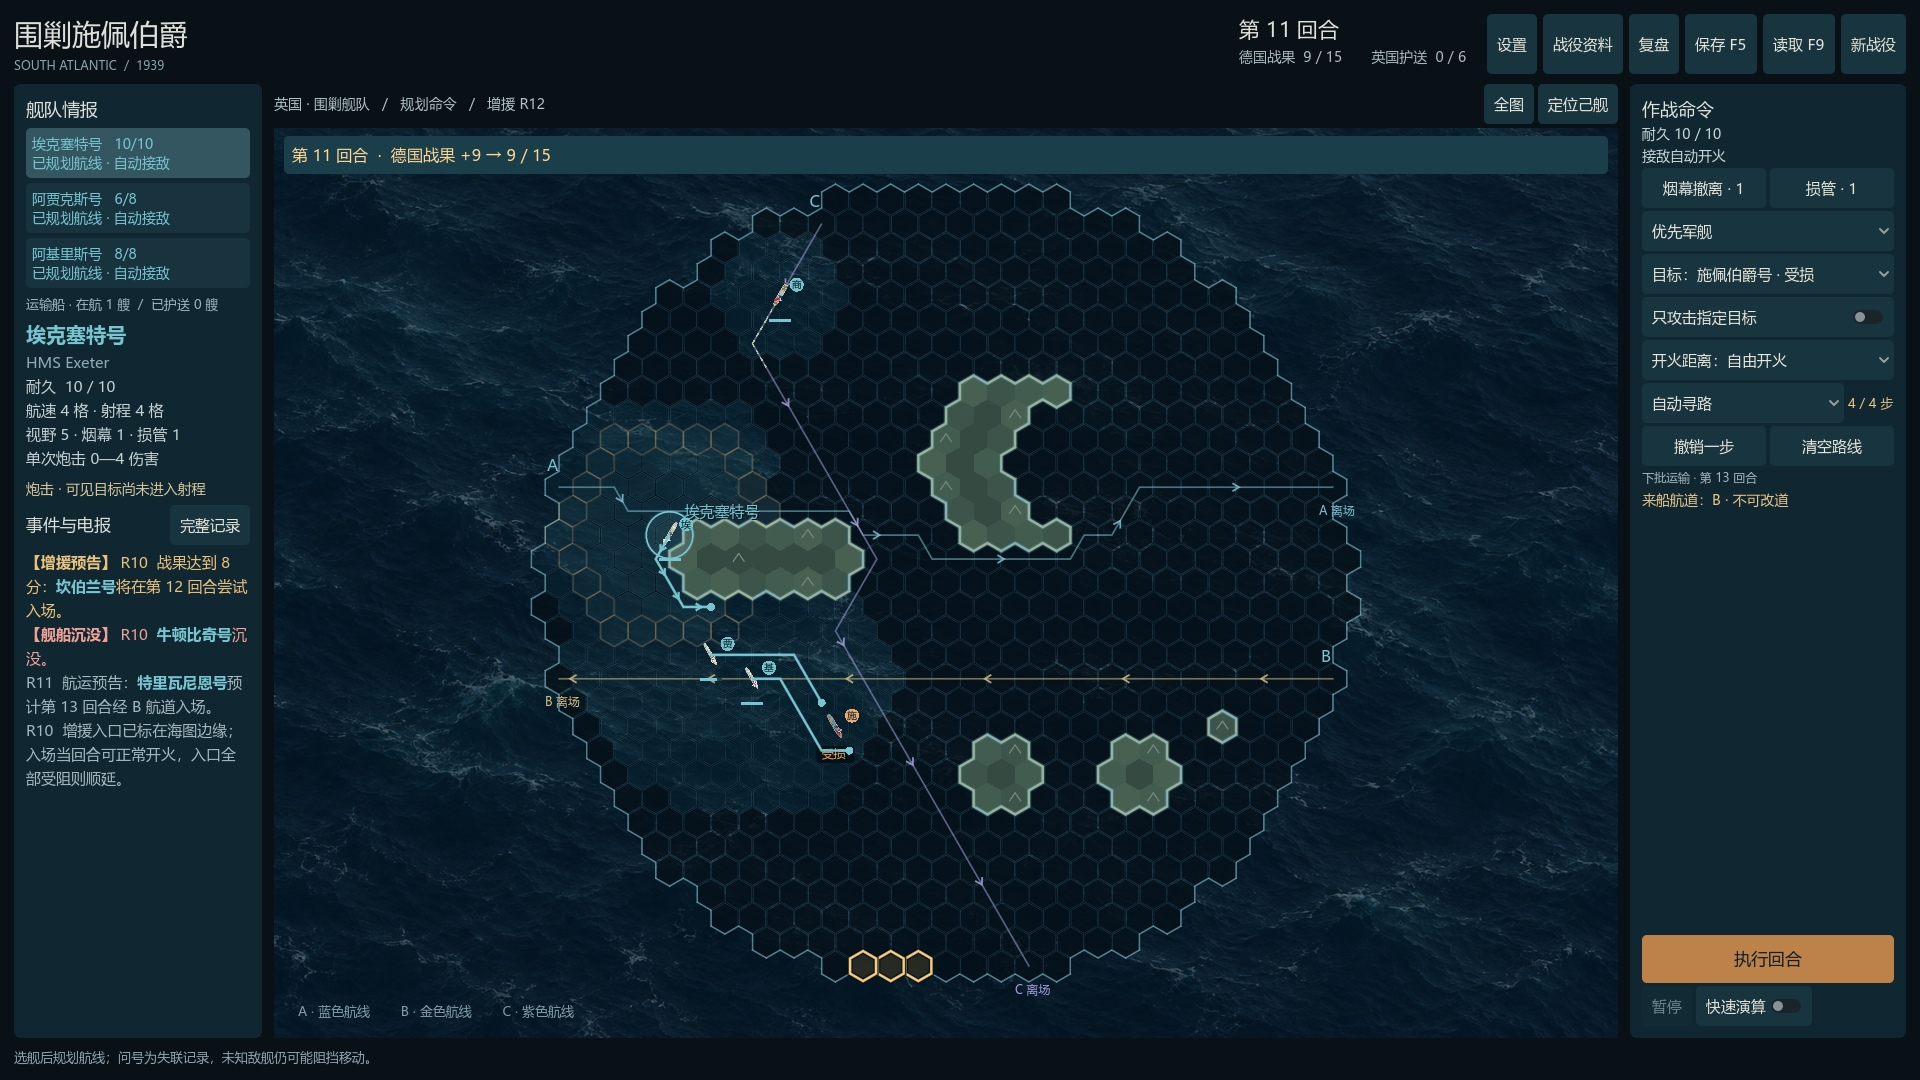
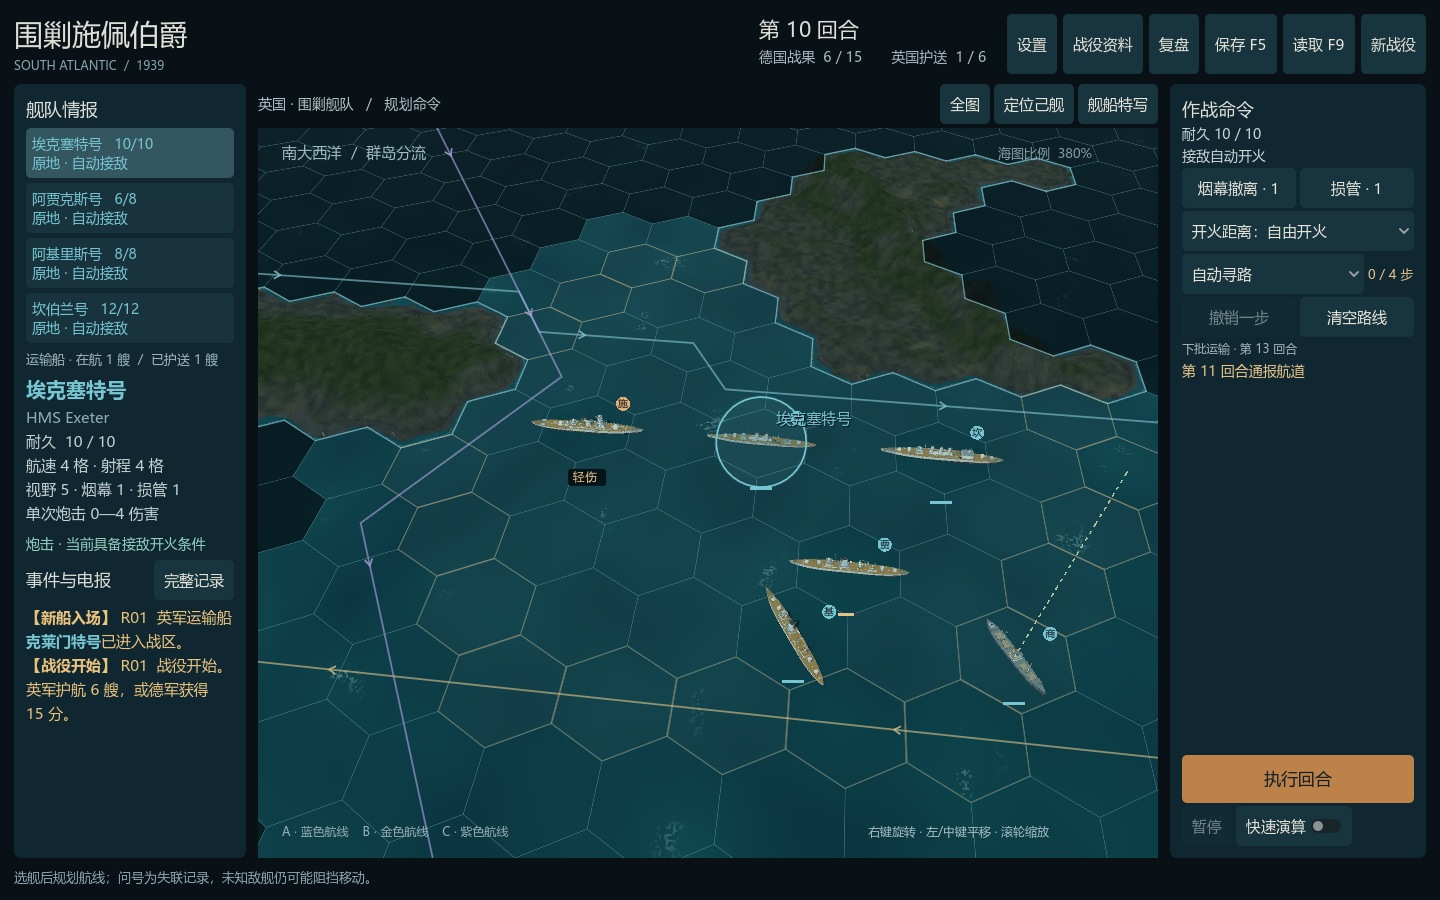
更新 0.10.16 下载说明与 3D 游戏截图

diff --git a/README.md b/README.md
@@ -2,50 +2,62 @@
 
 1939年，南大西洋。指挥施佩伯爵号袭商与突围，或统率英国巡洋舰搜索、围堵并保护运输船。
 
-这是一款中文非对称回合制海战战棋，支持 Windows 单人对战 AI 和同一局域网双人对战。
+这是一款中文非对称回合制海战战棋，支持 Windows 单人对战 AI 和同一局域网双人对战。当前试玩版 **0.10.16** 使用3D舰船、海面与岛屿，新局规则仍为 **0.4.14**。
 
-![围剿施佩伯爵](cover.png)
+![围剿施佩伯爵海战封面](cover.png)
 
 ## 下载与运行
 
-**[直接下载 Windows 试玩版 0.10.15（ZIP，约144MB）](https://github.com/deityfrost/hunt-for-graf-spee/releases/download/v0.10.15/GrafSpee-0.10.15-Windows.zip)**
+**[下载 Windows 试玩版 0.10.16](https://github.com/deityfrost/hunt-for-graf-spee/releases/download/v0.10.16/GrafSpee-0.10.16-Windows.zip)** · [最新发布页](https://github.com/deityfrost/hunt-for-graf-spee/releases/latest)
 
-备用入口：[最新发布页](https://github.com/deityfrost/hunt-for-graf-spee/releases/latest)。进入后在 **Assets** 中选择 `GrafSpee-0.10.15-Windows.zip`。
+1. 下载 `GrafSpee-0.10.16-Windows.zip`，解压完整文件夹。
+2. 运行其中的 `GrafSpee.exe`，保留同目录的 `GrafSpee.pck`、`platform` 和 `LICENSES`。
+3. 支持 Windows 10/11 64位，无需安装 Godot；单人游玩无需联网或游戏账号。
 
-1. 下载 `GrafSpee-0.10.15-Windows.zip`。
-2. 解压完整文件夹，再运行其中的 `GrafSpee.exe`。
-3. 保留同目录的 `GrafSpee.pck`、`platform` 和 `LICENSES`；不要只复制 `.exe`。
+GitHub自动生成的 `Source code` 压缩包只包含发行仓库资料，游戏请下载上述Windows ZIP。
 
-支持 Windows 10/11 64位。无需安装 Godot，单人游玩无需联网或游戏账号。GitHub 自动生成的 `Source code` 压缩包只包含本发行仓库的说明和图片；游戏安装包请选上述 Windows ZIP。
+## 这一版更新了什么
 
-当前游戏版本为 **0.10.15**，新局规则为 **0.4.14**，界面为中文。
+- 3D舰船与海岛接入完整战役及复盘，可旋转海图、缩放和查看舰船特写；炮击保持即时清晰，不增加炮塔转向等待。
+- 更新开场海战封面、完整舰船预览和材质，加入按已观察伤情显示的焦痕、烟气与中弹反馈。
+- 英军自动索敌，简化战役资料；改善集中追击和失联后的共同搜索。
+- 德军增加借岛转向与连续脱离的路线选择，保留必要烟幕、损管和避险。
+- 减少AI重复计算，改善复盘界面响应；完整大档案仍需等待后台载入。
+
+基础战斗数值和胜负规则不变。AI仍在调优，本次有限验证不代表所有追逃问题已解决，也不代表新的整局胜率结论。
+
+![德军3D指挥界面](screenshot-german.jpg)
+
+![英军3D指挥界面](screenshot-british.jpg)
 
 ## 怎么玩
 
-- **双方下令，同时行动。** 规划航迹、射击距离和目标优先级，双方锁定命令后统一执行。
-- **德国袭商，英国护航。** 德国积累战果并保持施佩存活；英国可以击沉施佩，也可以护送足够运输船离场。
-- **在不完整情报下决策。** 岛屿、烟幕、最后接触位置和有限损管会影响追击、集火与撤离。
-- **选择不同海域。** 四张预设海图与可重复种子的随机海域，支持存读档和战役复盘。
+- **双方下令，同时行动。** 规划航迹、射击距离和行动姿态，双方锁定命令后统一执行。
+- **德国袭商，英国护航。** 德国积累战果并保持施佩存活；英国可击沉施佩，也可护送足够运输船离场。
+- **依据有限情报判断。** 岛屿、烟幕、末次接触和损管会影响追击、集火与撤离。
+- **选择不同海域。** 四张预设海图和可重复种子的随机海域，支持存读档及战役复盘。
 - **从教学开始。** 内含五节德军教学、战役资料和舰船图鉴。
 
-![德军指挥界面](screenshot-german.jpg)
+海图右键拖动旋转，左键或中键拖动平移，滚轮缩放。“全图”“定位己舰”“舰船特写”可找回视角。空格执行、暂停或继续；Tab切换己舰；F1战役资料；F5保存；F9读取；M静音；Esc战役菜单。德国可指定目标，英军自动索敌。完整说明随包提供。
 
-![英军指挥界面](screenshot-british.jpg)
+![3D战役复盘](screenshot-replay.jpg)
 
-![战役复盘](screenshot-replay.jpg)
+## 升级与存档
+
+建议将新版解压到新文件夹，保留旧版。
+
+0.10.16的3D档案默认保存在 `%LOCALAPPDATA%\GrafSpee-3D-Combat\`，与旧版 `%LOCALAPPDATA%\GrafSpee\`、开发版档案分开。旧记录不会被删除，也不会自动迁入新3D档案；可继续用旧版查看原记录。新AI不会改写已记录复盘中的历史命令。
 
 ## 局域网双人
 
-两台电脑使用同一版本并连接同一局域网。房主从开局界面进入“局域网”创建房间，另一方查找房间，或粘贴房主复制的地址加入。详细步骤见压缩包中的《局域网联机说明.md》。
+两台电脑使用同一版本并连接同一局域网。房主从开局界面进入“局域网”创建房间，另一方查找房间或粘贴房主地址加入。详细步骤见ZIP中的《局域网联机说明.md》。
 
-目前没有互联网匹配、观战、云存档或断线续局。局域网已做本机回环验证，两台实体电脑及具体路由器环境仍欢迎试玩反馈。
+目前没有互联网匹配、观战、云存档或断线续局。不同显卡及两台实体电脑的路由器环境仍欢迎试玩反馈。
 
-## 操作与反馈
+## 反馈与说明
 
-空格执行、暂停或继续；Tab切换己方军舰；F1查看战役资料；F5保存；F9读取；M静音；Esc打开战役菜单。完整规则及说明随包提供。
+问题或建议可在 **[Issues](https://github.com/deityfrost/hunt-for-graf-spee/issues)** 留言，请附版本、地图、战役种子、回合和复现步骤。
 
-遇到问题或有玩法建议，可在 **[Issues](https://github.com/deityfrost/hunt-for-graf-spee/issues)** 留言。请尽量附上版本、地图、战役种子、回合、操作过程和复盘信息。
+本仓库分发Windows试玩包与公开资料，不包含游戏开发源码。素材来源及第三方许可见随包《素材说明.md》和 `LICENSES`。
 
-本仓库用于分发 Windows 试玩包及公开资料，不包含游戏开发源码。素材来源及第三方许可见压缩包中的《素材说明.md》和 `LICENSES`。
-
-本作以拉普拉塔河口海战和历史舰船为背景；海域、运输任务、胜负条件及部分机制经过游戏化改编。插画并非历史照片或精确复原。
+本作以历史舰船和拉普拉塔河口海战为背景，海域、运输任务及胜负条件经过游戏化改编。舰模和封面为历史参考下的美术近似，并非历史照片或精确复原。
